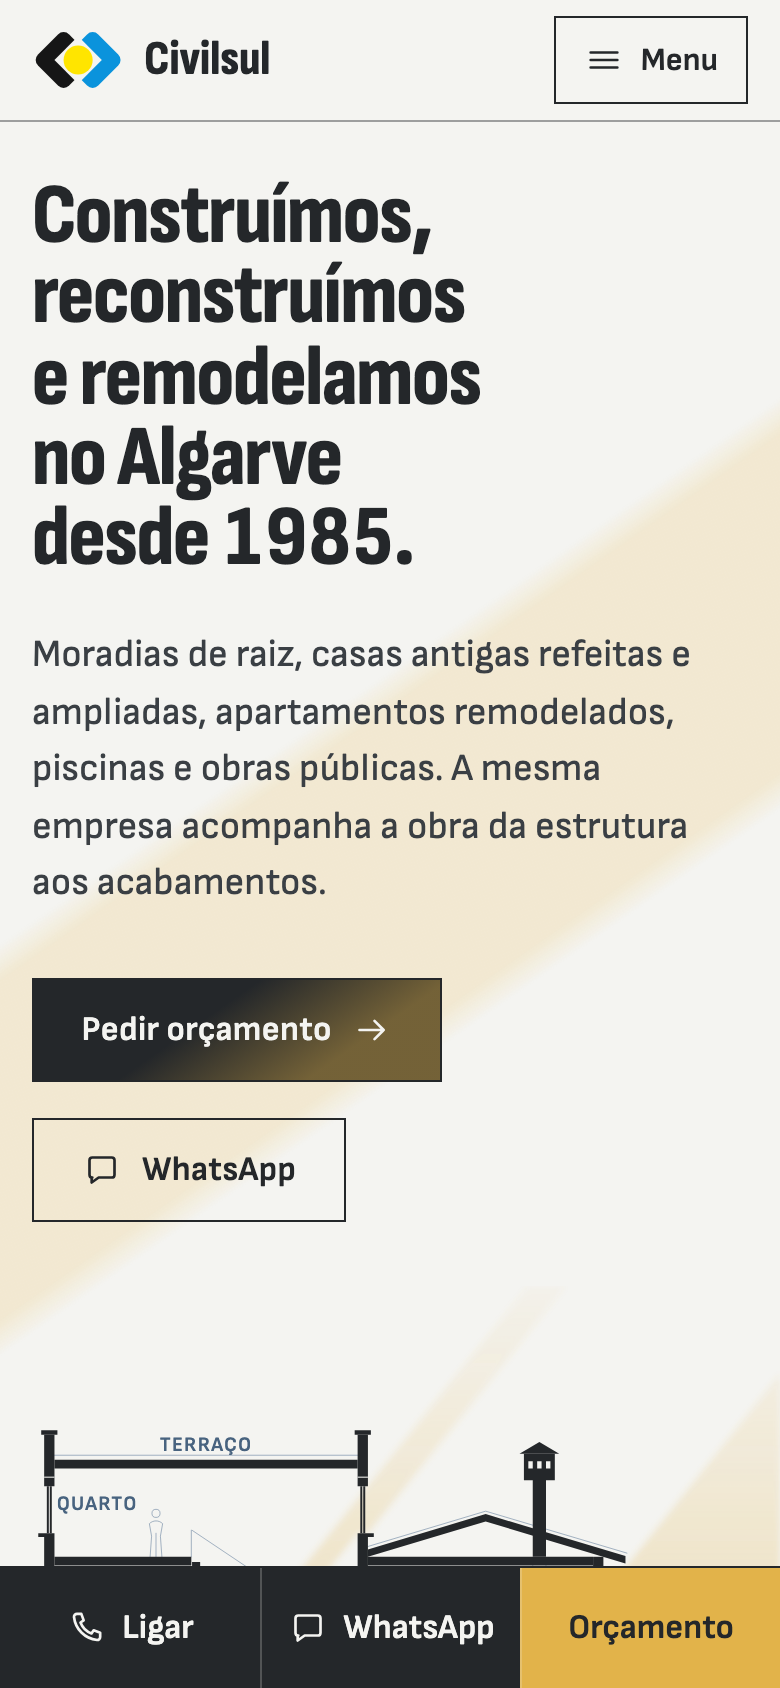
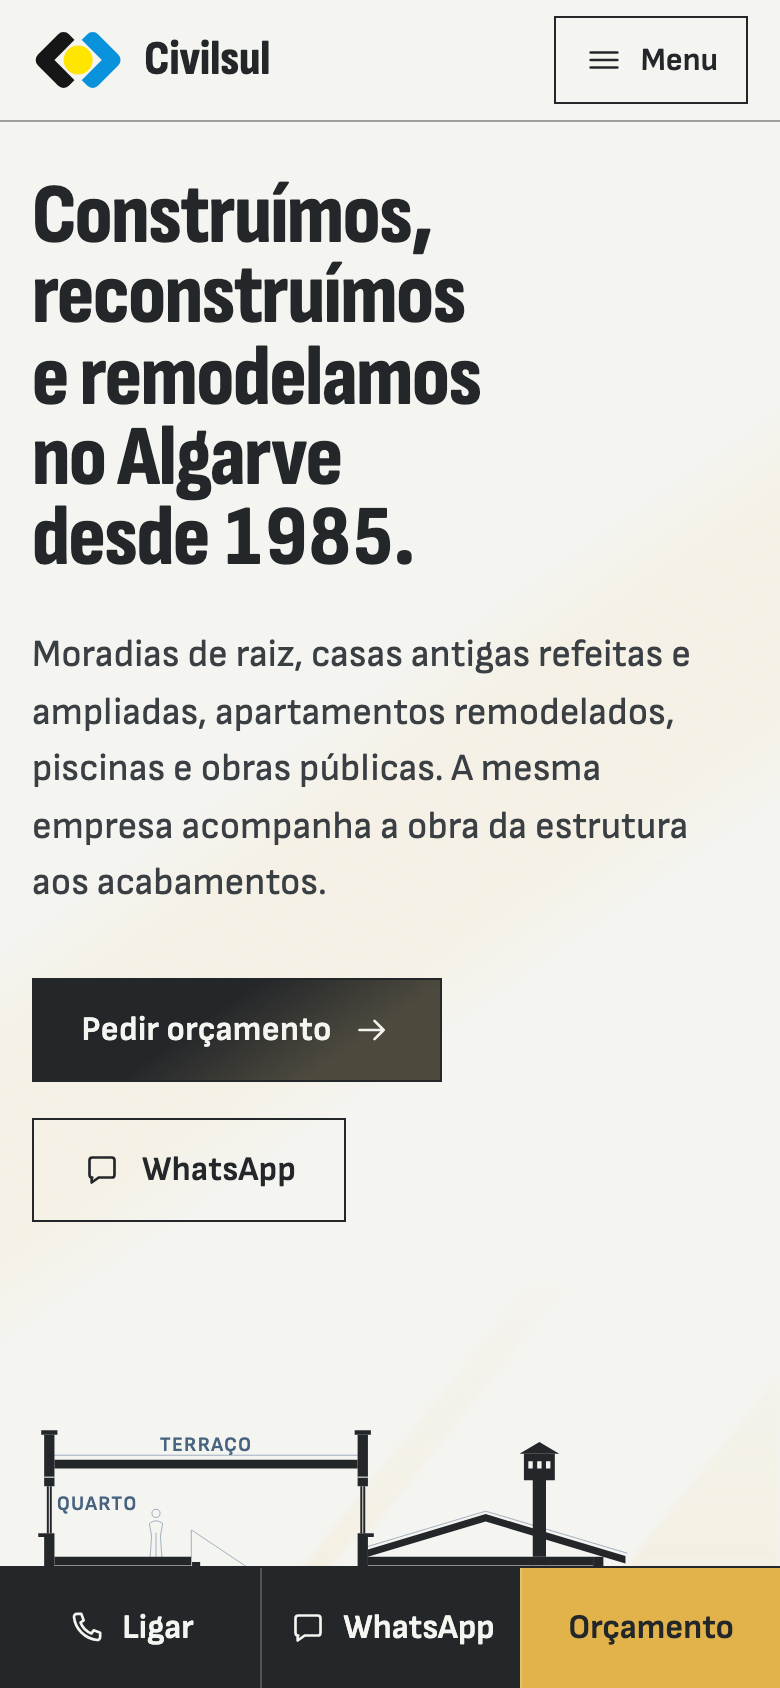
Luz em Corte: luz dourada mais suave (tom mais claro, menos opacidade, arestas suaves)

Changed region(s): [[0.0, 0.4313, 1.0, 0.8009], [0.0, 0.2464, 1.0, 0.6161]]

diff --git a/src/variants/luz-em-corte/styles.css b/src/variants/luz-em-corte/styles.css
@@ -76,11 +76,11 @@ address { font-style: normal; }
 .btn--lit { overflow: hidden; }
 /* a ação principal atravessada pela luz: um feixe dourado translúcido ao ângulo da banda, de arestas suaves */
 .btn--lit::after {
-  background: linear-gradient(145deg, transparent 22%, rgb(226 179 74 / 0.42) 40%, rgb(226 179 74 / 0.42) 54%, transparent 72%) 0 0 / 220% 100% no-repeat, var(--bg);
+  background: linear-gradient(145deg, transparent 22%, rgb(243 212 142 / 0.2) 40%, rgb(243 212 142 / 0.2) 54%, transparent 72%) 0 0 / 220% 100% no-repeat, var(--bg);
   transition: background-position 0.6s var(--ease), background-color 0.25s var(--ease);
 }
 .btn--lit:hover::after { background-position: 40% 0, 0 0; }
-.btn--rev::after { background: linear-gradient(145deg, transparent 22%, rgb(226 179 74 / 0.55) 40%, rgb(226 179 74 / 0.55) 54%, transparent 72%) 0 0 / 220% 100% no-repeat, var(--bg); }
+.btn--rev::after { background: linear-gradient(145deg, transparent 22%, rgb(243 212 142 / 0.3) 40%, rgb(243 212 142 / 0.3) 54%, transparent 72%) 0 0 / 220% 100% no-repeat, var(--bg); }
 .btn--rev { --bg: var(--ground); --fg: var(--ink); border-color: var(--ground); }
 .btn--rev:hover { --bg: #fff; }
 .btn--line-rev { --fg: var(--ground); border-color: var(--hair-rev); }
@@ -422,7 +422,7 @@ address { font-style: normal; }
 @media (min-width: 640px) { .row2 { grid-template-columns: 1fr 1fr; } }
 .err { color: var(--err); font-weight: 600; font-size: 0.9375rem; }
 [data-invalid] > .opts .opt { border-color: var(--err); }
-.qf__note { padding: 14px 16px; background: rgb(226 179 74 / 0.22); border-left: 1px solid var(--ink); }
+.qf__note { padding: 14px 16px; background: rgb(243 212 142 / 0.2); border-left: 1px solid var(--ink); }
 .qf__nav { display: flex; flex-wrap: wrap; gap: 20px 28px; padding-top: 24px; border-top: 1px solid var(--ink); }
 .qf.is-js .qf__nav [data-next], .qf.is-js .qf__nav [data-send='wa'] { margin-left: auto; }
 .qf:not(.is-js) [data-prev], .qf:not(.is-js) [data-next], .qf:not(.is-js) [data-send='wa'] { display: none; }
@@ -525,14 +525,14 @@ address { font-style: normal; }
   content: ''; position: fixed; pointer-events: none;
   left: 50%; top: 50%;
   width: 20vmax; height: 320vmax; margin: -160vmax 0 0 -10vmax;
-  background: linear-gradient(90deg, transparent, var(--c) 9%, var(--c) 91%, transparent);
+  background: linear-gradient(90deg, transparent, var(--c) 24%, var(--c) 76%, transparent);
   translate: calc(36vw - 72vw * var(--sp)) 0;
   rotate: calc(47deg + 19deg * var(--sp));
 }
 .sun > i { z-index: -1; }
-.sun__soft { --c: rgb(226 179 74 / 0.6); mix-blend-mode: soft-light; }
-.sun__warm { --c: rgb(226 179 74 / 0.17); mix-blend-mode: multiply; }
-.lit::after { --c: rgb(226 179 74 / 0.32); mix-blend-mode: screen; z-index: 1; }
+.sun__soft { --c: rgb(243 212 142 / 0.4); mix-blend-mode: soft-light; }
+.sun__warm { --c: rgb(243 212 142 / 0.1); mix-blend-mode: multiply; }
+.lit::after { --c: rgb(243 212 142 / 0.18); mix-blend-mode: screen; z-index: 1; }
 
 @media (prefers-reduced-motion: no-preference) {
   @supports (animation-timeline: scroll()) {
